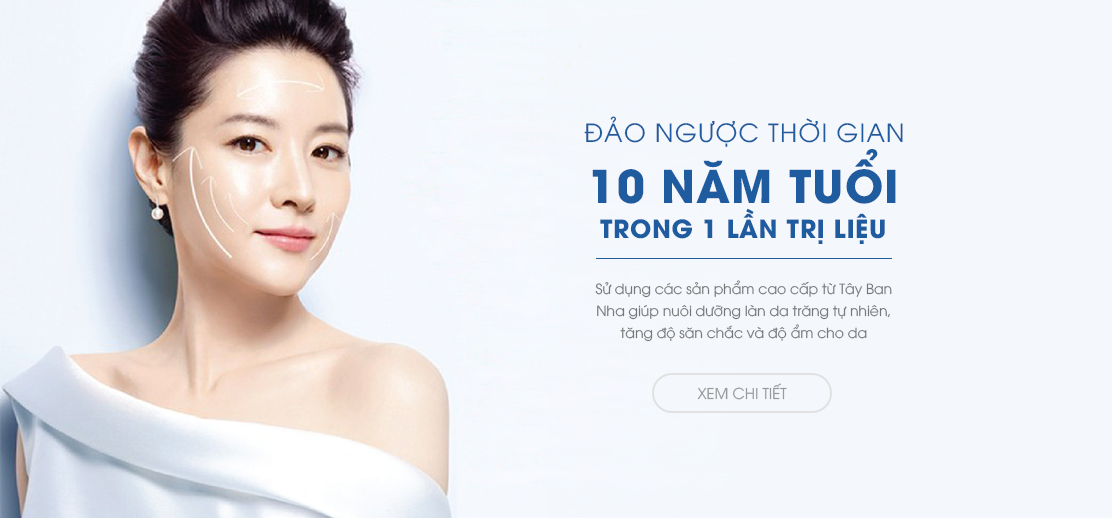
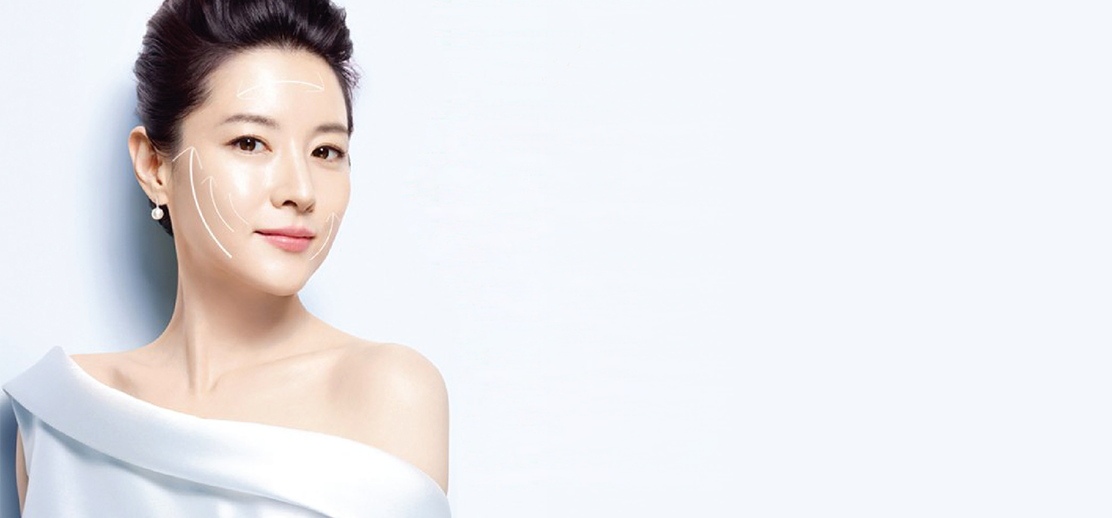
done page home, box h-5 slider

Changed region(s): [[0.5198, 0.2162, 0.8255, 0.4633], [0.5198, 0.5251, 0.795, 0.6486], [0.6115, 0.7104, 0.7338, 0.8031]]

diff --git a/lib/home/h-5/index.sass b/lib/home/h-5/index.sass
@@ -2,87 +2,112 @@
 //////////////////////////////////////
 // CODE
 //////////////////////////////////////
-.canhcam-slider-4
+
+.canhcam-slider-2
 	+pad(2rem 0)
 	+media-breakpoint-up(lg)
 		+pad(4rem 0)
 	.title
-		margin: auto
 		text-align: center
-		margin-bottom: r(34.25px)
-	h2 
-		+fz(r(30px))
-		text-align: center
-		text-transform: uppercase
-		color: color-get($mau, main)
-	.news-list
-		+pad(2rem 0 0 0)
 		+media-breakpoint-up(lg)
-			+pad(0 0 0 2rem)
-		h3 
+			max-width: 70%
+		h2 
 			text-transform: uppercase
-			color: lighten(color-get($mau,main),30%)
-			font-weight: 600 
-			position: relative
-			margin-bottom: 2rem
-			+fz(1.5rem)
-			&:before
-				display: block
-				width: 60px
-				height: 2px
-				background: lighten(color-get($mau,extra),0%)
-				content: ''
-				+pos(abs, calc(100% + 10px) null null 0)
-
-	.list-thumb
-		.slick-slide
-			min-height: 400px 
+			+fz(r(30px))
+			color: color-get($mau, main)
+		p
+			color: color-get($mau, xam-3)
+			+fz(r(15px))
+	.owl-carousel
+		position: relative
+		// Main
+		.owl-stage-outer
+			.item
+				min-height: 480px
+				.box-content
+					.h3
+						position: relative
+						color: color-get($mau, title-slide)
+						text-transform: uppercase
+						.top
+							+fz(r(25px))
+						.bottom
+							+fw(600)
+							+fz(r(45px))
+						span
+							+fw(600)
+					.full-content
+						color: color-get($mau, xam-3)
+					.btn-more
+						width: r(180px)
+						+pad(.5rem null)
+						text-transform: uppercase
+						color: color-get($mau, xam-3)
+						border: 1px solid color-get($mau, xam-3)
+						border-radius: r(20px)
+						&:hover, &:active, &:focus
+							background: color-get($mau, title-slide)
+							color: color-get($mau, trang)
+				+media-breakpoint-up(lg)
+					min-height: 518px
+					.box-content
+						max-width: 80%
+						.h3
+							position: relative
+							&:after
+								+pos(abs, 105% null null null)
+								display: block
+								content: ""
+								width: 100%
+								height: 1px
+								background: color-get($mau, title-slide)
+						.full-content
+							+mar(2rem 0)
+		// Nav
+		.owl-nav
+			button
+				&.owl-prev, &.owl-next
+					+pad(.5rem_)
+					width: 3rem
+					height: 3rem
+					border: 1px solid color-get($mau, xam-3)
+					color: darken(color-get($mau, xam-3),20%)
+					+bor-rad(50%)
+					text-align: center
+					&:focus
+						outline: none
+				&:hover, &.active
+					&.owl-prev, &.owl-next
+						background: color-get($mau,main)
+						color: color-get($mau,trang)
 			+media-breakpoint-up(lg)
-				min-height: 500px
-	.slider-nav
-		overflow: hidden
-		margin-top: .5rem 
-		margin-right: -.25rem
-		margin-left: -.25rem
-		display: none
-		+media-breakpoint-up(md)
-			display: block
-		.slick-slide
-			min-height: 130px 
-			margin: 0 .25rem 
-	.slick-slider
-		.slick-arrow
-			background: none
-			color: darken(color-get($mau,trang) ,0%)
-			padding: 1rem 1.1rem 
-			width: initial
-			height: initial
-			z-index: 100
-			border: 2px solid color-get($mau, xam-9)
-			+bor-rad(50%)
-			&:before
-				font-family: 'Font Awesome 5 Free'
-				font-weight: 900
-				color: color-get($mau, xam-3)
-				font-size: r(15px)
-			&.slick-prev
-				left: -5%
-				&:before
-					content: '\f053'
-			&.slick-next
-				right: -5%
-				&:before
-					content: '\f054'
-			&:hover 
-				background: darken(color-get($mau,extra) ,0%)
-				&:before
-					color: darken(color-get($mau,main) ,0%)
-		.slick-list
-			text-align: center
-			.slick-slide
+				+opacity(0)
+				margin-top: 0
+				+transition(all .3s ease-in-out)
+				button
+					&.owl-prev, &.owl-next
+						margin: 0
+						+transform(translateY(-50%))
+						&:focus
+							outline: none
+					&.owl-prev
+						+pos(abs, 50% null null -5rem)
+					&.owl-next
+						+pos(abs, 50% -5rem null null)
+		// Dots
+		.owl-dots
+			+pos(abs, null null 0 0)
+			width: 100%
+			.owl-dot
 				&:focus
 					outline: none
-				img
-					display: inline-block
-.canhcam-slider-4 .slider-nav
-	display: none
+				span
+					background: darken(color-get($mau,trang),5%)
+				&.active
+					span
+						background: color-get($mau,main)
+	&:hover
+		+media-breakpoint-up(md)
+			.owl-carousel
+				.owl-nav
+					+opacity(1)

diff --git a/lib/home/h-5/index.js b/lib/home/h-5/index.js
@@ -1,24 +1,19 @@
 $(function() {
-	$('.canhcam-slider-4 .list-thumb').slick({
-		slidesToShow: 1,
-		slidesToScroll: 1,
-		arrows: true,
-		fade: false,
-		infinite: false,
-		autoplay: false,
-		asNavFor: '.slider-nav'
-	});
-	$('.canhcam-slider-4 .slider-nav').slick({
-		slidesToShow: 3,
-		slidesToScroll: 1,
-		asNavFor: '.list-thumb',
-		dots: false,
-		arrows: false,
-		infinite: false,
-		// centerMode: true,
-		focusOnSelect: true,
-		// prevArrow: $('.top-arrow'),
-		// nextArrow: $('.bottom-arrow'),
-	});
+    if ($('.canhcam-slider-2 .owl-carousel').length) {
+        $('.canhcam-slider-2 .owl-carousel').owlCarousel({
+            items: 1,
+            loop: true,
+            center: true,
+            padding: 0,
+            margin: 0,
+            navText: ['<i class="fa fa-chevron-left"></i>', '<i class="fa fa-chevron-right"></i>'],
+            nav: true,
+            dots: false,
+            autoplay: false,
+            autoplayTimeout: 5000,
+            autoplayHoverPause: true,
+            callbacks: true,
+        });
+    }
 
 });

diff --git a/lib/_core/_colors.sass b/lib/_core/_colors.sass
@@ -43,4 +43,5 @@ xam-12: #f1f1f1,
 hong-1: #ff9ff3,
 hong-2: #f368e0,
 trang: #ffffff,
-den: #000000)
+den: #000000,
+title-slide: #1e5b9f)
